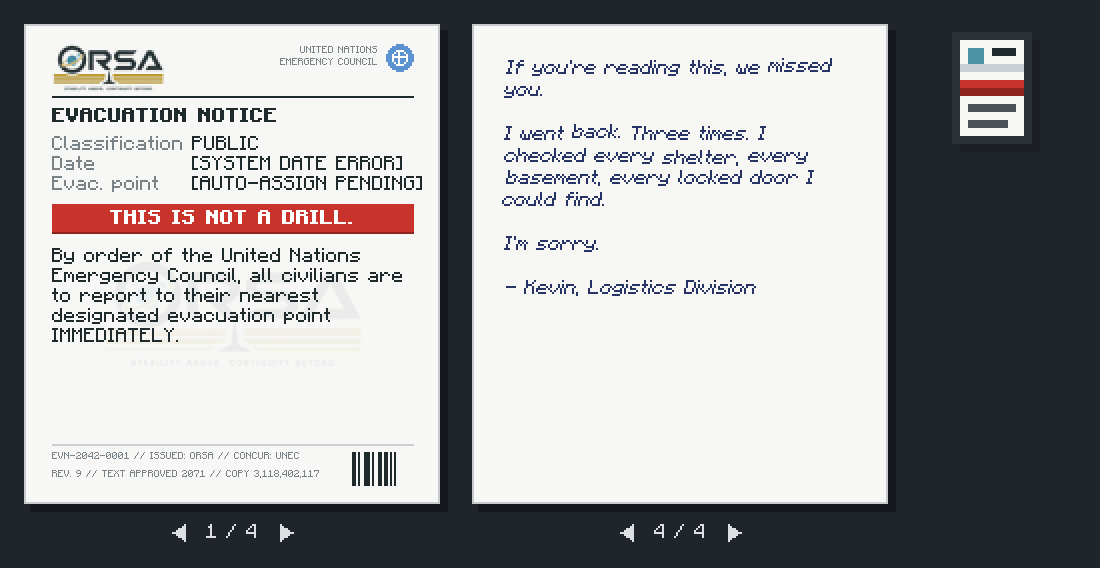
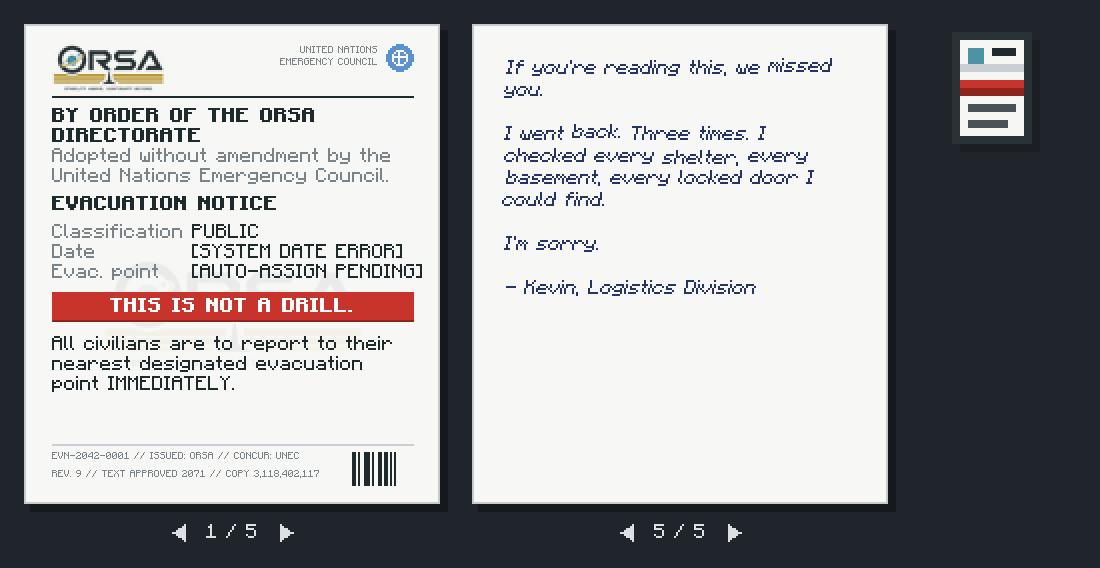
feat: put the evacuation notice under ORSA's order
The cover now opens with the ORSA Directorate's order and the council's adoption of it without amendment, then the notice; the instruction no longer names the council. Wording approved by the owner (CH-38).

Changed region(s): [[0.0309, 0.1796, 0.4018, 0.6884], [0.5873, 0.9278, 0.6491, 0.9577], [0.2164, 0.9278, 0.2473, 0.9577]]

diff --git a/docs/art/kevins-blanket/make_notice_mockup.py b/docs/art/kevins-blanket/make_notice_mockup.py
@@ -93,6 +93,8 @@ def sheet():
     return im, d
 
 
+ORDER = 'BY ORDER OF THE ORSA DIRECTORATE'
+ADOPTED = 'Adopted without amendment by the United Nations Emergency Council.'
 CODE = 'EVN-2042-0001 // ISSUED: ORSA // CONCUR: UNEC'
 REVISION = 'REV. 9 // TEXT APPROVED 2071 // COPY 3,118,402,117'
 UN_BLUE, UN_PALE = (92, 146, 210, 255), (214, 228, 243, 255)
@@ -140,6 +142,14 @@ def printed(font):
     y = 8 + logo.height
     d.line((M, y, W - M, y), fill=INK)
     y += 6
+    # ORSA gives the order; the council only adopts it. Then the notice itself.
+    for line in wrap(font, ORDER, TEXT_W, bold=True):
+        font.draw(im, M, y, line, INK, bold=True)
+        y += 10
+    for line in wrap(font, ADOPTED, TEXT_W):
+        font.draw(im, M, y, line, LABEL)
+        y += 10
+    y += 4
     font.draw(im, M, y, 'EVACUATION NOTICE', INK, bold=True)
     y += 14
     for label, value in (('Classification', 'PUBLIC'), ('Date', '[SYSTEM DATE ERROR]'),
@@ -153,8 +163,8 @@ def printed(font):
     text = 'THIS IS NOT A DRILL.'
     font.draw(im, M + (TEXT_W - font.width(text, True)) // 2, y + 3, text, WHITE, bold=True)
     y += 22
-    for line in wrap(font, 'By order of the United Nations Emergency Council, all civilians are to report to their '
-                           'nearest designated evacuation point IMMEDIATELY.', TEXT_W):
+    for line in wrap(font, 'All civilians are to report to their nearest designated evacuation point IMMEDIATELY.',
+                     TEXT_W):
         font.draw(im, M, y, line, INK)
         y += 10
     control_strip(font, im, d)
@@ -249,8 +259,8 @@ def main():
     font = Font()
     one = scaled(font, printed(font))
     last = scaled(font, handwritten(font))
-    one = pager(font, one, 1, 4)
-    last = pager(font, last, 4, 4)
+    one = pager(font, one, 1, 5)
+    last = pager(font, last, 5, 5)
     ico = icon()
     canvas = Image.new('RGBA', (one.width * 2 + 72 + 180, one.height + 48), (32, 37, 43, 255))
     canvas.alpha_composite(one, (24, 24))

diff --git a/src/test/java/com/frozendawn/item/EvacuationNoticeTextTest.java b/src/test/java/com/frozendawn/item/EvacuationNoticeTextTest.java
@@ -16,12 +16,15 @@ import static org.junit.jupiter.api.Assertions.assertTrue;
 
 /** CH-38's notice, restyled as a sheet: the words it always had, and only the new marks the owner approved. */
 class EvacuationNoticeTextTest {
-    /** The written book's text, line by line, as StarterBooks had it; its rule and stage direction are gone. */
+    /**
+     * The written book's text, line by line, as StarterBooks had it, with the owner's approved changes: its rule and
+     * stage direction are gone, and ORSA's Directorate gives the order that the council only adopts.
+     */
     private static final List<String> ORIGINAL = List.of(
-            "UNITED NATIONS", "EMERGENCY COUNCIL", "EVACUATION NOTICE",
+            "UNITED NATIONS", "EMERGENCY COUNCIL", "BY ORDER OF THE ORSA DIRECTORATE",
+            "Adopted without amendment by the United Nations Emergency Council.", "EVACUATION NOTICE",
             "Classification: PUBLIC", "Date: [SYSTEM DATE ERROR]", "THIS IS NOT A DRILL.",
-            "By order of the United Nations Emergency Council, all civilians are to report to their nearest "
-                    + "designated evacuation point IMMEDIATELY.",
+            "All civilians are to report to their nearest designated evacuation point IMMEDIATELY.",
             "SITUATION BRIEFING:",
             "The Orbital Resonance Stabilization Authority (ORSA) has confirmed that Earth's orbital trajectory has "
                     + "deviated beyond correctable parameters.",
@@ -43,6 +46,8 @@ class EvacuationNoticeTextTest {
         List<String> read = new ArrayList<>();
         read.add(text(lang, "council.1"));
         read.add(text(lang, "council.2"));
+        read.add(text(lang, "authority"));
+        read.add(text(lang, "adopted"));
         read.add(text(lang, "title"));
         read.add(text(lang, "classification.label") + ": " + text(lang, "classification"));
         read.add(text(lang, "date.label") + ": " + text(lang, "date"));

diff --git a/src/main/java/com/frozendawn/client/EvacuationNoticeScreen.java b/src/main/java/com/frozendawn/client/EvacuationNoticeScreen.java
@@ -18,8 +18,9 @@ import org.lwjgl.glfw.GLFW;
 
 /**
  * CH-38's notice as ORSA printed it: one sterile sheet per page, the masthead, watermark and filing strip on every
- * printed page, the council's small seal on the cover, a single red bar. Kevin's page is the back of the last sheet,
- * with nothing on it but his pen. The paper never moves; only the page turns.
+ * printed page, the council's small seal on the cover, ORSA's order above the council's adoption of it, and a single
+ * red bar. Kevin's page is the back of the last sheet, with nothing on it but his pen. The paper never moves; only
+ * the page turns.
  */
 public final class EvacuationNoticeScreen extends Screen {
     private static final ResourceLocation MASTHEAD = texture("masthead"), WATERMARK = texture("watermark"),
@@ -87,6 +88,16 @@ public final class EvacuationNoticeScreen extends Screen {
         int y = 36;
         g.fill(M, y, W - M, y + 1, INK);
         y += 6;
+        // ORSA gives the order; the council only adopts it. Then the notice itself.
+        for (FormattedCharSequence line : font.split(text("authority").copy().withStyle(ChatFormatting.BOLD), TEXT_W)) {
+            g.drawString(font, line, M, y, INK, false);
+            y += LINE;
+        }
+        for (FormattedCharSequence line : font.split(text("adopted"), TEXT_W)) {
+            g.drawString(font, line, M, y, LABEL, false);
+            y += LINE;
+        }
+        y += 4;
         g.drawString(font, text("title").copy().withStyle(ChatFormatting.BOLD), M, y, INK, false);
         y += 14;
         for (String field : List.of("classification", "date", "point")) {

diff --git a/src/main/java/com/frozendawn/item/EvacuationNotice.java b/src/main/java/com/frozendawn/item/EvacuationNotice.java
@@ -21,8 +21,11 @@ public final class EvacuationNotice {
         public String translationKey() { return KEY + key; }
     }
 
-    /** The cover's keys, drawn in the screen's fixed layout: issuer, title, fields, the alert and the order. */
-    public static final List<String> COVER = List.of("council.1", "council.2", "title",
+    /**
+     * The cover's keys, drawn in the screen's fixed layout: the council's mark, ORSA's order and the council's
+     * adoption of it, then the title, fields, the alert and the instruction.
+     */
+    public static final List<String> COVER = List.of("council.1", "council.2", "authority", "adopted", "title",
             "classification.label", "classification", "date.label", "date", "point.label", "point", "alert", "order");
 
     /** The filing strip printed at the foot of every printed page; Kevin's page has none. */
